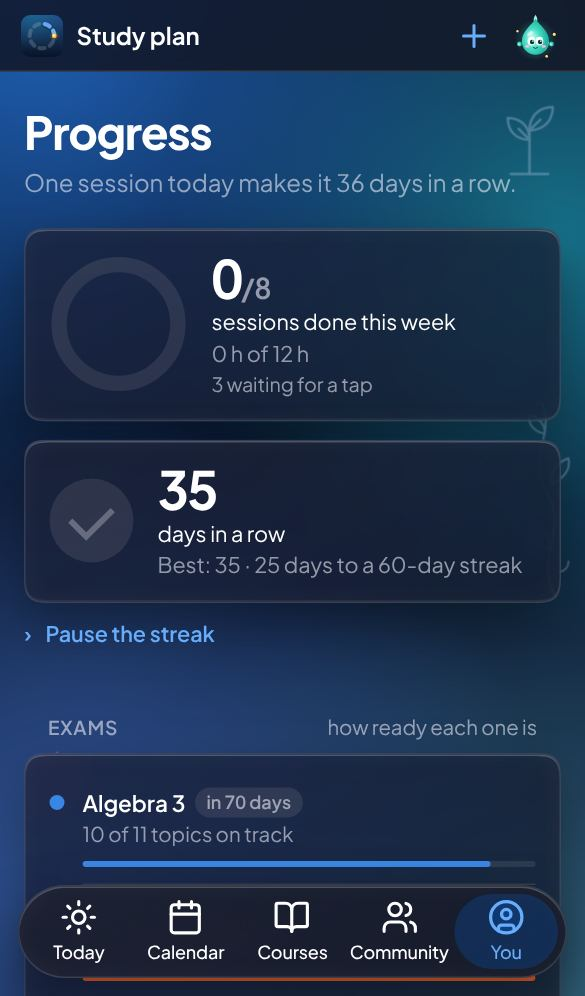
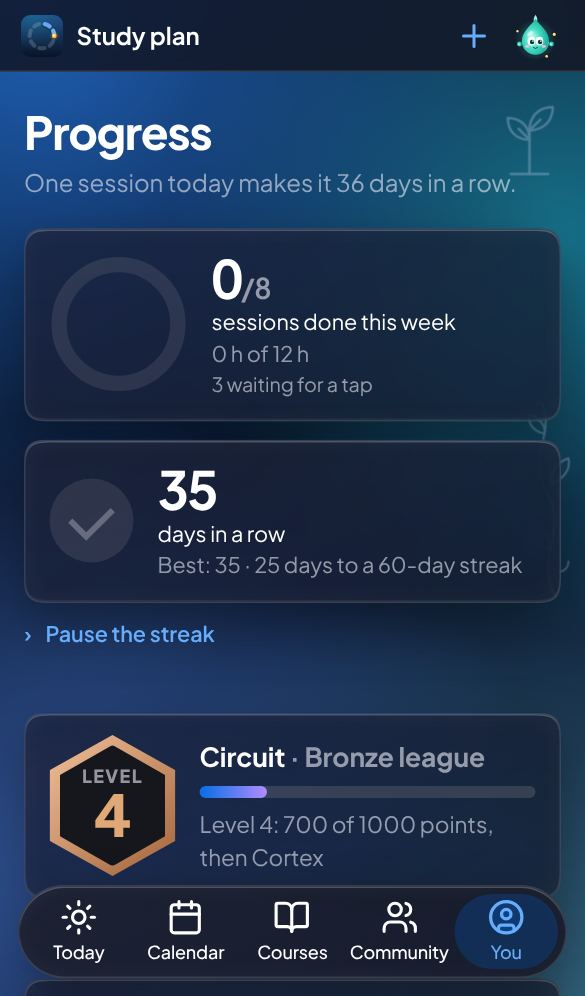
D190: the front page's pictures taken again, with the level and the league
Progress shows the level's crest and Community the friends' league, in English,
French and Italian, light and dark; their captions say so.

Claude-Session: https://claude.ai/code/session_01RETXNx6ZUfKochhYWCCYz2

diff --git a/src/cps/web/templates/home.html b/src/cps/web/templates/home.html
@@ -105,7 +105,7 @@
     </div>
     <figure class="landing-shot phone">
       <picture><source srcset="{{ asset(shots ~ 'progress-phone-dark.jpg') }}" media="(prefers-color-scheme: dark)"><img src="{{ asset(shots ~ 'progress-phone.jpg') }}" width="585" height="996" alt="{{ _('Progress on a phone.') }}" loading="lazy" decoding="async"></picture>
-      <figcaption>{{ _("Progress: the week, the streak, each exam.") }}</figcaption>
+      <figcaption>{{ _("Progress: the week, the streak, your level.") }}</figcaption>
     </figure>
   </article>
 
@@ -117,7 +117,7 @@
     </div>
     <figure class="landing-shot phone">
       <picture><source srcset="{{ asset(shots ~ 'community-phone-dark.jpg') }}" media="(prefers-color-scheme: dark)"><img src="{{ asset(shots ~ 'community-phone.jpg') }}" width="585" height="996" alt="{{ _('Community on a phone.') }}" loading="lazy" decoding="async"></picture>
-      <figcaption>{{ _("Community: who is studying now, and what your classmates share. Everyone here is made up.") }}</figcaption>
+      <figcaption>{{ _("Community: your friends' league this week, who is studying now, what your classmates share. Everyone here is made up.") }}</figcaption>
     </figure>
   </article>
 

diff --git a/src/cps/locales/fr.py b/src/cps/locales/fr.py
@@ -3766,7 +3766,7 @@ MESSAGES: dict[str, str] = {
     "Can I do it with my friends?": "Je peux le faire avec mes amis ?",
     "Check your exams": "Vérifie tes examens",
     "Community on a phone.": "La communauté sur un téléphone.",
-    "Community: who is studying now, and what your classmates share. Everyone here is made up.": "Communauté : qui révise en ce moment, et ce que partagent tes camarades. Tout le monde ici est inventé.",
+    "Community: your friends' league this week, who is studying now, what your classmates share. Everyone here is made up.": "Communauté : la ligue de la semaine entre amis, qui révise en ce moment, ce que partagent tes camarades. Tout le monde ici est inventé.",
     "Does it really work?": "Est-ce que ça marche vraiment ?",
     "Each session says what to do in it: recall first, then check your notes. Focus times it, with a pause every {n} minutes. Missed one? Tap it, and the plan moves the rest for you.": "Chaque séance dit quoi y faire : se rappeler d'abord, puis vérifier dans ses notes. Focus la chronomètre, avec une pause toutes les {n} minutes. Une séance manquée ? Touche-la, et le plan déplace le reste pour toi.",
     "Every day you study lights up your week. A rest day keeps your streak; miss a day, and a {n}-minute session repairs it. A plant grows for each day you focus, and each exam shows how ready you are.": "Chaque jour où tu révises éclaire ta semaine. Un jour de repos garde ta série ; un jour manqué, et une séance de {n} minutes la répare. Une plante pousse pour chaque jour de focus, et chaque examen montre où tu en es.",
@@ -3783,7 +3783,7 @@ MESSAGES: dict[str, str] = {
     "Points and badges for the work": "Des points et des badges pour le travail",
     "Points for the work you do, and badges for the habits you build.": "Des points pour le travail que tu fais, et des badges pour les habitudes que tu prends.",
     "Progress on a phone.": "La progression sur un téléphone.",
-    "Progress: the week, the streak, each exam.": "Progression : la semaine, la série, chaque examen.",
+    "Progress: the week, the streak, your level.": "Progression : la semaine, la série, ton niveau.",
     "Recall as the memory model predicts it (FSRS-6, average weights): an estimate, not a measurement of students.": "Le rappel tel que le prévoit le modèle de mémoire (FSRS-6, poids moyens) : une estimation, pas une mesure sur des étudiants.",
     "Recall {weeks} weeks after the exam: {spaced} % spaced, {crammed} % crammed, {once} % studied once.": "Rappel {weeks} semaines après l'examen : {spaced} % en espaçant, {crammed} % en bachotant, {once} % en étudiant une fois.",
     "Revision apps time their reviews as if your whole day were free. A student's week has classes, a job, sport, a trip to campus: a plan has to start from that week.": "Les apps de révision placent leurs rappels comme si toute ta journée était libre. La semaine d'un étudiant a des cours, un job, du sport, le trajet jusqu'au campus : un plan doit partir de cette semaine.",

diff --git a/src/cps/locales/it.py b/src/cps/locales/it.py
@@ -3739,7 +3739,7 @@ MESSAGES: dict[str, str] = {
     "Can I do it with my friends?": "Posso farlo con i miei amici?",
     "Check your exams": "Controlla i tuoi esami",
     "Community on a phone.": "La Community su un telefono.",
-    "Community: who is studying now, and what your classmates share. Everyone here is made up.": "Community: chi sta studiando adesso, e cosa condividono i tuoi compagni. Qui sono tutti inventati.",
+    "Community: your friends' league this week, who is studying now, what your classmates share. Everyone here is made up.": "Community: la lega della settimana tra amici, chi sta studiando adesso, cosa condividono i tuoi compagni. Qui sono tutti inventati.",
     "Does it really work?": "Funziona davvero?",
     "Each session says what to do in it: recall first, then check your notes. Focus times it, with a pause every {n} minutes. Missed one? Tap it, and the plan moves the rest for you.": "Ogni sessione dice cosa farci: prima ricordare, poi controllare gli appunti. Focus la cronometra, con una pausa ogni {n} minuti. Ne hai saltata una? Toccala, e il piano sposta il resto per te.",
     "Every day you study lights up your week. A rest day keeps your streak; miss a day, and a {n}-minute session repairs it. A plant grows for each day you focus, and each exam shows how ready you are.": "Ogni giorno in cui studi illumina la tua settimana. Un giorno di riposo tiene la serie; salti un giorno, e una sessione di {n} minuti la ripara. Una pianta cresce per ogni giorno di focus, e ogni esame mostra quanto sei pronto.",
@@ -3756,7 +3756,7 @@ MESSAGES: dict[str, str] = {
     "Points and badges for the work": "Punti e badge per il lavoro",
     "Points for the work you do, and badges for the habits you build.": "Punti per il lavoro che fai, e badge per le abitudini che costruisci.",
     "Progress on a phone.": "I progressi su un telefono.",
-    "Progress: the week, the streak, each exam.": "Progressi: la settimana, la serie, ogni esame.",
+    "Progress: the week, the streak, your level.": "Progressi: la settimana, la serie, il tuo livello.",
     "Recall as the memory model predicts it (FSRS-6, average weights): an estimate, not a measurement of students.": "Il ricordo come lo prevede il modello della memoria (FSRS-6, pesi medi): una stima, non una misura su studenti.",
     "Recall {weeks} weeks after the exam: {spaced} % spaced, {crammed} % crammed, {once} % studied once.": "Ricordo {weeks} settimane dopo l'esame: {spaced} % distribuendo, {crammed} % studiando all'ultimo, {once} % studiando una volta.",
     "Revision apps time their reviews as if your whole day were free. A student's week has classes, a job, sport, a trip to campus: a plan has to start from that week.": "Le app di ripasso fissano i ripassi come se tutta la giornata fosse libera. La settimana di uno studente ha lezioni, un lavoro, lo sport, il tragitto fino al campus: un piano deve partire da quella settimana.",
